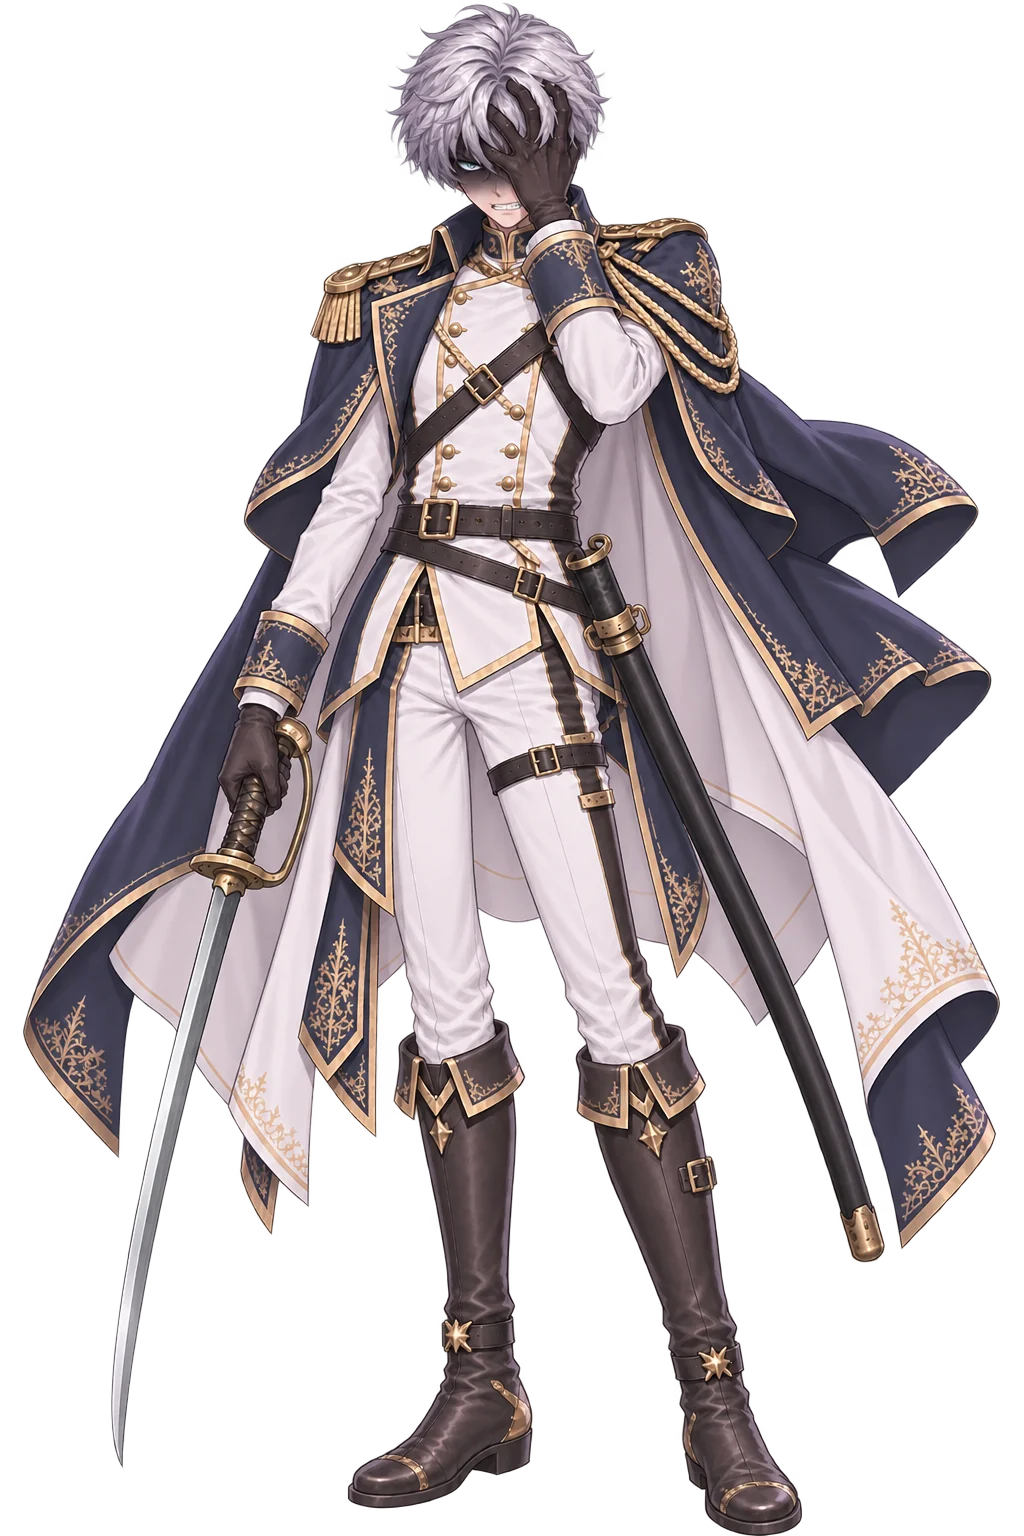
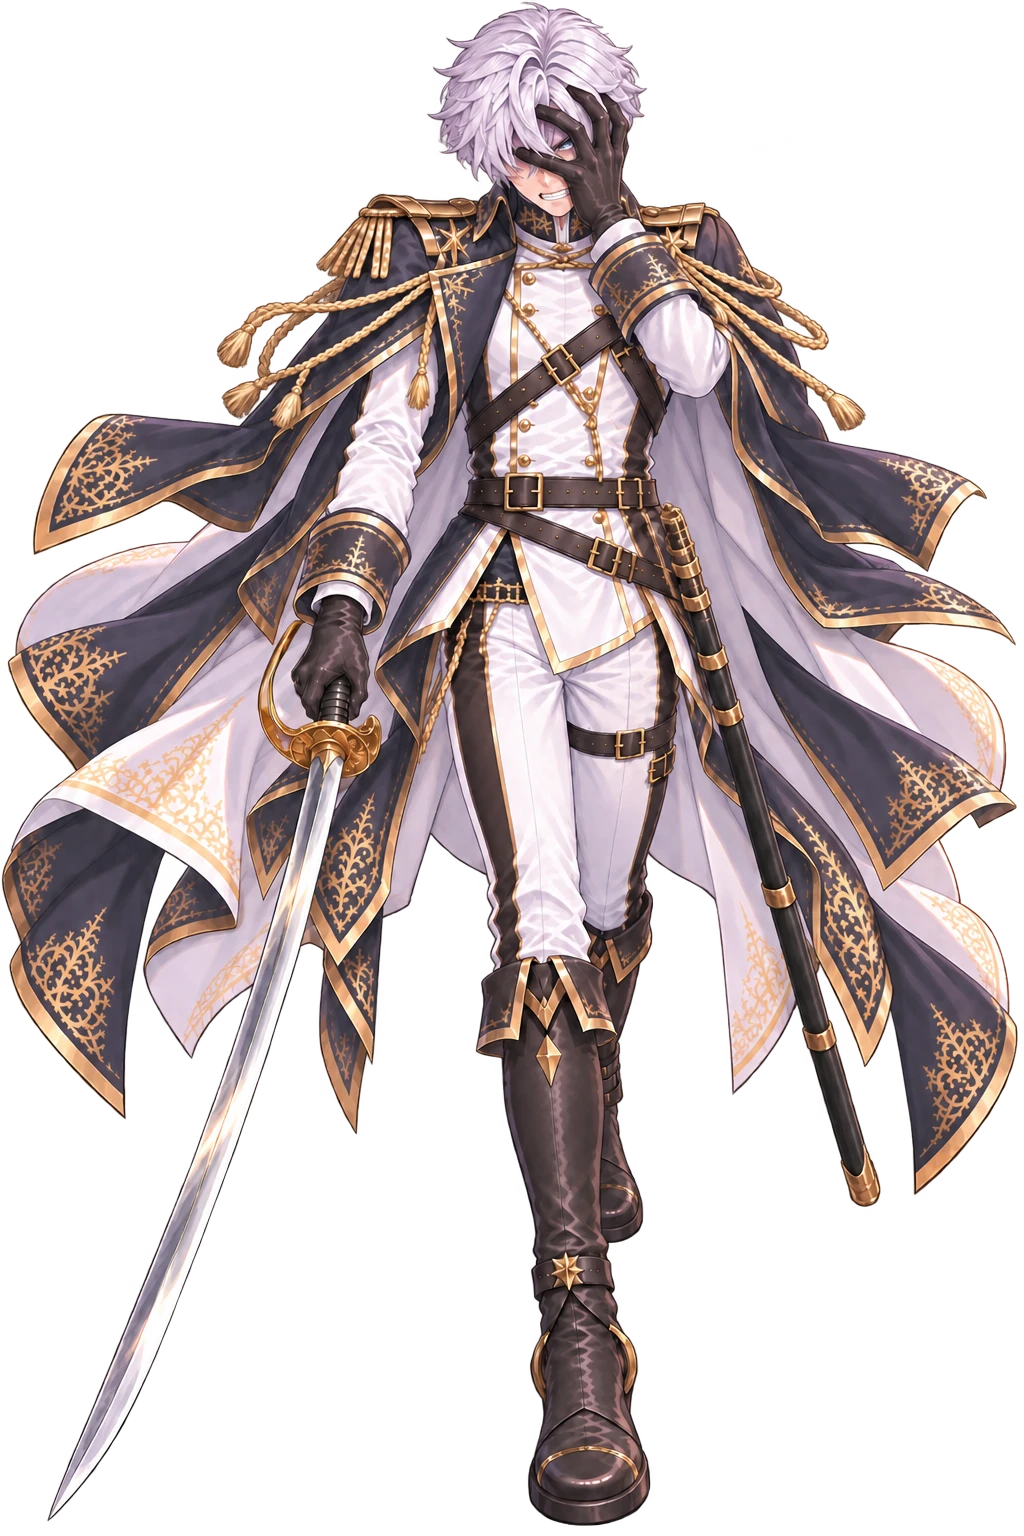
ver -2377 米夏 抓臉換 Ray 11-03 交的新圖；暴走以新抓臉為底重畫（頭髮升騰、臉微仰、赤眼下視、符文法環＋紫黑火焰之翼，GPT 直出 alpha）

diff --git a/index.html b/index.html
@@ -16,7 +16,7 @@
 <link rel="apple-touch-icon" href="resources/background/tivot_emblem.png?v=9220f8bb">
 <title>TIVOT</title>
 <!-- 全域鎖直向（真鎖 + 橫向擋板）；classic script，需在版面就緒前掛上 -->
-<script src="orientation.js?v=2376"></script>
+<script src="orientation.js?v=2377"></script>
 <!-- 離線包（ver -2256）：註冊 sw.js；主畫面 App 裡出現「下載離線包」鈕 -->
 <script src="offline.js"></script>
 <!-- ══ 效能探針・計數層（ver -850，Ray：「沒有辦法寫一個偵測程式進去看是什麼
@@ -65,74 +65,74 @@
 <script type="importmap">
 {
   "imports": {
-    "./audio.js": "./audio.js?v=2376",
-    "./config.js": "./config.js?v=2376",
-    "./i18n.js": "./i18n.js?v=2376",
-    "./main.js": "./main.js?v=2376",
-    "./offline.js": "./offline.js?v=2376",
-    "./orientation.js": "./orientation.js?v=2376",
-    "./state.js": "./state.js?v=2376",
-    "./sw.js": "./sw.js?v=2376",
-    "./telemetry.js": "./telemetry.js?v=2376",
-    "./modules/beatpick.js": "./modules/beatpick.js?v=2376",
-    "./modules/blink.js": "./modules/blink.js?v=2376",
-    "./modules/breath.js": "./modules/breath.js?v=2376",
-    "./modules/combat.js": "./modules/combat.js?v=2376",
-    "./modules/defense.js": "./modules/defense.js?v=2376",
-    "./modules/enemy.js": "./modules/enemy.js?v=2376",
-    "./modules/eyefx.js": "./modules/eyefx.js?v=2376",
-    "./modules/gear.js": "./modules/gear.js?v=2376",
-    "./modules/groundShadow.js": "./modules/groundShadow.js?v=2376",
-    "./modules/haptics.js": "./modules/haptics.js?v=2376",
-    "./modules/inn.js": "./modules/inn.js?v=2376",
-    "./modules/inspector.js": "./modules/inspector.js?v=2376",
-    "./modules/loot.js": "./modules/loot.js?v=2376",
-    "./modules/partner.js": "./modules/partner.js?v=2376",
-    "./modules/saint.js": "./modules/saint.js?v=2376",
-    "./modules/sakura.js": "./modules/sakura.js?v=2376",
-    "./modules/save.js": "./modules/save.js?v=2376",
-    "./modules/settings.js": "./modules/settings.js?v=2376",
-    "./modules/story.js": "./modules/story.js?v=2376",
-    "./modules/sway.js": "./modules/sway.js?v=2376",
-    "./modules/tone.js": "./modules/tone.js?v=2376",
-    "./modules/town.js": "./modules/town.js?v=2376",
-    "./modules/transition.js": "./modules/transition.js?v=2376",
-    "./modules/tutorial.js": "./modules/tutorial.js?v=2376",
-    "./modules/weapon.js": "./modules/weapon.js?v=2376",
-    "./script/bg_index.js": "./script/bg_index.js?v=2376",
-    "./script/blink.js": "./script/blink.js?v=2376",
-    "./script/clock.js": "./script/clock.js?v=2376",
-    "./script/enemies.js": "./script/enemies.js?v=2376",
-    "./script/evaluation.js": "./script/evaluation.js?v=2376",
-    "./script/eyefx.js": "./script/eyefx.js?v=2376",
-    "./script/inventory.js": "./script/inventory.js?v=2376",
-    "./script/loadout.js": "./script/loadout.js?v=2376",
-    "./script/mainScript.js": "./script/mainScript.js?v=2376",
-    "./script/progress.js": "./script/progress.js?v=2376",
-    "./script/shopcards.js": "./script/shopcards.js?v=2376",
-    "./script/shopstock.js": "./script/shopstock.js?v=2376",
-    "./script/speakers.js": "./script/speakers.js?v=2376",
-    "./script/sway.js": "./script/sway.js?v=2376",
-    "./script/town.js": "./script/town.js?v=2376",
-    "./script/weapons.js": "./script/weapons.js?v=2376",
-    "./i18n/en.js": "./i18n/en.js?v=2376",
-    "./i18n/es.js": "./i18n/es.js?v=2376",
-    "./i18n/ja.js": "./i18n/ja.js?v=2376",
-    "./i18n/scriptTr.js": "./i18n/scriptTr.js?v=2376",
-    "./i18n/zh.js": "./i18n/zh.js?v=2376",
-    "./i18n/script/es.classic.js": "./i18n/script/es.classic.js?v=2376",
-    "./i18n/script/es.js": "./i18n/script/es.js?v=2376",
-    "./i18n/ui/es.classic.js": "./i18n/ui/es.classic.js?v=2376",
-    "./i18n/ui/es.js": "./i18n/ui/es.js?v=2376"
+    "./audio.js": "./audio.js?v=2377",
+    "./config.js": "./config.js?v=2377",
+    "./i18n.js": "./i18n.js?v=2377",
+    "./main.js": "./main.js?v=2377",
+    "./offline.js": "./offline.js?v=2377",
+    "./orientation.js": "./orientation.js?v=2377",
+    "./state.js": "./state.js?v=2377",
+    "./sw.js": "./sw.js?v=2377",
+    "./telemetry.js": "./telemetry.js?v=2377",
+    "./modules/beatpick.js": "./modules/beatpick.js?v=2377",
+    "./modules/blink.js": "./modules/blink.js?v=2377",
+    "./modules/breath.js": "./modules/breath.js?v=2377",
+    "./modules/combat.js": "./modules/combat.js?v=2377",
+    "./modules/defense.js": "./modules/defense.js?v=2377",
+    "./modules/enemy.js": "./modules/enemy.js?v=2377",
+    "./modules/eyefx.js": "./modules/eyefx.js?v=2377",
+    "./modules/gear.js": "./modules/gear.js?v=2377",
+    "./modules/groundShadow.js": "./modules/groundShadow.js?v=2377",
+    "./modules/haptics.js": "./modules/haptics.js?v=2377",
+    "./modules/inn.js": "./modules/inn.js?v=2377",
+    "./modules/inspector.js": "./modules/inspector.js?v=2377",
+    "./modules/loot.js": "./modules/loot.js?v=2377",
+    "./modules/partner.js": "./modules/partner.js?v=2377",
+    "./modules/saint.js": "./modules/saint.js?v=2377",
+    "./modules/sakura.js": "./modules/sakura.js?v=2377",
+    "./modules/save.js": "./modules/save.js?v=2377",
+    "./modules/settings.js": "./modules/settings.js?v=2377",
+    "./modules/story.js": "./modules/story.js?v=2377",
+    "./modules/sway.js": "./modules/sway.js?v=2377",
+    "./modules/tone.js": "./modules/tone.js?v=2377",
+    "./modules/town.js": "./modules/town.js?v=2377",
+    "./modules/transition.js": "./modules/transition.js?v=2377",
+    "./modules/tutorial.js": "./modules/tutorial.js?v=2377",
+    "./modules/weapon.js": "./modules/weapon.js?v=2377",
+    "./script/bg_index.js": "./script/bg_index.js?v=2377",
+    "./script/blink.js": "./script/blink.js?v=2377",
+    "./script/clock.js": "./script/clock.js?v=2377",
+    "./script/enemies.js": "./script/enemies.js?v=2377",
+    "./script/evaluation.js": "./script/evaluation.js?v=2377",
+    "./script/eyefx.js": "./script/eyefx.js?v=2377",
+    "./script/inventory.js": "./script/inventory.js?v=2377",
+    "./script/loadout.js": "./script/loadout.js?v=2377",
+    "./script/mainScript.js": "./script/mainScript.js?v=2377",
+    "./script/progress.js": "./script/progress.js?v=2377",
+    "./script/shopcards.js": "./script/shopcards.js?v=2377",
+    "./script/shopstock.js": "./script/shopstock.js?v=2377",
+    "./script/speakers.js": "./script/speakers.js?v=2377",
+    "./script/sway.js": "./script/sway.js?v=2377",
+    "./script/town.js": "./script/town.js?v=2377",
+    "./script/weapons.js": "./script/weapons.js?v=2377",
+    "./i18n/en.js": "./i18n/en.js?v=2377",
+    "./i18n/es.js": "./i18n/es.js?v=2377",
+    "./i18n/ja.js": "./i18n/ja.js?v=2377",
+    "./i18n/scriptTr.js": "./i18n/scriptTr.js?v=2377",
+    "./i18n/zh.js": "./i18n/zh.js?v=2377",
+    "./i18n/script/es.classic.js": "./i18n/script/es.classic.js?v=2377",
+    "./i18n/script/es.js": "./i18n/script/es.js?v=2377",
+    "./i18n/ui/es.classic.js": "./i18n/ui/es.classic.js?v=2377",
+    "./i18n/ui/es.js": "./i18n/ui/es.js?v=2377"
   }
 }
 </script>
 <!-- BUST:END -->
-<link rel="stylesheet" href="style.css?v=2376">
+<link rel="stylesheet" href="style.css?v=2377">
   <!-- 拾得道具／道具欄／商店／懸賞榜（ver -380 抽出，飛行頁共用同一份）。
        ⚠ `data-lootsheet` 是給 `modules/loot.js` 認的：它看到已經掛過就不再掛一次。
          飛行頁沒有這一行，由那支模組自己掛上去。 -->
-  <link rel="stylesheet" href="css/lootsheet.css?v=2376" data-lootsheet="1">
+  <link rel="stylesheet" href="css/lootsheet.css?v=2377" data-lootsheet="1">
 <!-- 主畫面 App（standalone）偵測：首繪前在 <html> 蓋 .standalone，
      供 CSS 修 iOS 26 版面視窗少算頂部安全區高度（底部露黑帶）的問題 -->
 <script>
@@ -778,6 +778,6 @@
      ⚠ src 是**按下去才給**的（lazy）：不然每次開機都要多載一整個飛行頁。 -->
 <iframe id="flightFrame" title="飛行"></iframe>
 
-<script type="module" src="main.js?v=2376"></script>
+<script type="module" src="main.js?v=2377"></script>
 </body>
 </html>

diff --git a/flight/index.html b/flight/index.html
@@ -3,7 +3,7 @@
 <head>
 <meta charset="utf-8">
 <meta name="viewport" content="width=device-width,initial-scale=1,maximum-scale=1,user-scalable=no,viewport-fit=cover">
-<script src="../orientation.js?v=2376"></script>
+<script src="../orientation.js?v=2377"></script>
 <script>
 /* 介面字譯文（ver -1909）：這一頁是非模組，程式一開跑就讀字串 —— 所以譯文表要**同步**載
    （document.write，只在選了有譯文的語言時）。語言判定與 i18n.js 的 LANG 同一套
@@ -11,7 +11,7 @@
 (function(){
   var l=null; try{ l=localStorage.getItem('tivot.lang'); }catch(e){}
   if(!l){ try{ var n=(navigator.languages&&navigator.languages[0])||navigator.language||''; if(String(n).toLowerCase().indexOf('es')===0) l='es'; }catch(e){} }
-  if(['es'].indexOf(l)>=0) document.write('<script src="../i18n/script/'+l+'.classic.js?v=2376"><\/script><script src="../i18n/ui/'+l+'.classic.js?v=2376"><\/script>');
+  if(['es'].indexOf(l)>=0) document.write('<script src="../i18n/script/'+l+'.classic.js?v=2377"><\/script><script src="../i18n/ui/'+l+'.classic.js?v=2377"><\/script>');
 })();
 function i18nT(s){ var t=window.__TIVOT_TR; return (t && typeof s==='string' && t[s]!=null) ? t[s] : s; }
 document.addEventListener('DOMContentLoaded', function(){
@@ -237,7 +237,7 @@ document.addEventListener('DOMContentLoaded', function(){
   /* ver -2217：門圖含楣（kerberos_gate，＝主遊戲同一張）—— 底圖往上延伸到楣的上緣（--fk-gate-top，負值，layoutFKerb 寫）。
      畫在 ::before：門的子元素（紋章／箭／鉚釘）排在它之後，自然疊在上面。 */
   #fkerbDoor::before{content:'';position:absolute;left:0;right:0;top:var(--fk-gate-top,0px);bottom:0;
-    background-image:url('../resources/vfx/kerberos_gate.webp?v=2376');
+    background-image:url('../resources/vfx/kerberos_gate.webp?v=2377');
     background-repeat:no-repeat;background-size:100% 100%;pointer-events:none;}
   #fkerb.rise #fkerbDoor{transform:translateY(calc(var(--fkerb-rise,0px) * -1));}
   /* 楣與其餘零件：全部是門的子元素＝同一剛體，門上推它們跟著上去
@@ -260,8 +260,8 @@ document.addEventListener('DOMContentLoaded', function(){
       radial-gradient(circle at 50% 22%, rgba(0,0,0,.72) 40%, rgba(0,0,0,0) 78%);
     box-shadow:inset 0 3px 7px rgba(0,0,0,.85);}
   #fkerbGear .fkg-shine{position:absolute;inset:0;mix-blend-mode:screen;opacity:.8;
-    -webkit-mask-image:url("../resources/vfx/kerberos_gear.webp?v=2376");
-    mask-image:url("../resources/vfx/kerberos_gear.webp?v=2376");
+    -webkit-mask-image:url("../resources/vfx/kerberos_gear.webp?v=2377");
+    mask-image:url("../resources/vfx/kerberos_gear.webp?v=2377");
     -webkit-mask-size:100% 100%;mask-size:100% 100%;
     -webkit-mask-repeat:no-repeat;mask-repeat:no-repeat;
     background:linear-gradient(114deg,
@@ -281,8 +281,8 @@ document.addEventListener('DOMContentLoaded', function(){
     filter:drop-shadow(0 3px 7px rgba(0,0,0,.9)) drop-shadow(0 0 2px rgba(0,0,0,.8));}
   #fkerbPend .fkp-shine{position:absolute;inset:0;pointer-events:none;
     mix-blend-mode:screen;opacity:.85;
-    -webkit-mask-image:url("../resources/vfx/kerberos_pendant.webp?v=2376");
-    mask-image:url("../resources/vfx/kerberos_pendant.webp?v=2376");
+    -webkit-mask-image:url("../resources/vfx/kerberos_pendant.webp?v=2377");
+    mask-image:url("../resources/vfx/kerberos_pendant.webp?v=2377");
     -webkit-mask-size:100% 100%;mask-size:100% 100%;
     -webkit-mask-repeat:no-repeat;mask-repeat:no-repeat;
     background:linear-gradient(114deg,
@@ -647,23 +647,23 @@ img:not([src]), img[src=""], img.img-broken{visibility:hidden !important;}
        ⚠ 要有，否則交棒那一格齒輪會憑空冒出來（同吊墜的理由）。
        ⚠ 排在 `.fk-plate` 之前 ＝ 團徽之下、槍棺之上。 -->
   <div id="fkerbGear"><i class="fkg-well"></i>
-    <img src="../resources/vfx/kerberos_gear.webp?v=2376" alt=""><i class="fkg-shine"></i></div>
+    <img src="../resources/vfx/kerberos_gear.webp?v=2377" alt=""><i class="fkg-shine"></i></div>
   <div id="fkerbGearSm"><i class="fkg-well"></i>
-    <img src="../resources/vfx/kerberos_gear.webp?v=2376" alt=""></div>
-  <img class="fk-plate" src="../resources/vfx/kerberos_plate.webp?v=2376" alt="">
-  <img class="fk-arrow n" src="../resources/vfx/kerberos_arrow.webp?v=2376" alt="">
-  <img class="fk-arrow e" src="../resources/vfx/kerberos_arrow.webp?v=2376" alt="">
-  <img class="fk-arrow s" src="../resources/vfx/kerberos_arrow.webp?v=2376" alt="">
-  <img class="fk-arrow w" src="../resources/vfx/kerberos_arrow.webp?v=2376" alt="">
-  <img class="fk-rivet r10" src="../resources/vfx/kerberos_rivet.webp?v=2376" alt="">
-  <img class="fk-rivet r2"  src="../resources/vfx/kerberos_rivet.webp?v=2376" alt="">
-  <img class="fk-rivet r4"  src="../resources/vfx/kerberos_rivet.webp?v=2376" alt="">
-  <img class="fk-rivet r8"  src="../resources/vfx/kerberos_rivet.webp?v=2376" alt="">
+    <img src="../resources/vfx/kerberos_gear.webp?v=2377" alt=""></div>
+  <img class="fk-plate" src="../resources/vfx/kerberos_plate.webp?v=2377" alt="">
+  <img class="fk-arrow n" src="../resources/vfx/kerberos_arrow.webp?v=2377" alt="">
+  <img class="fk-arrow e" src="../resources/vfx/kerberos_arrow.webp?v=2377" alt="">
+  <img class="fk-arrow s" src="../resources/vfx/kerberos_arrow.webp?v=2377" alt="">
+  <img class="fk-arrow w" src="../resources/vfx/kerberos_arrow.webp?v=2377" alt="">
+  <img class="fk-rivet r10" src="../resources/vfx/kerberos_rivet.webp?v=2377" alt="">
+  <img class="fk-rivet r2"  src="../resources/vfx/kerberos_rivet.webp?v=2377" alt="">
+  <img class="fk-rivet r4"  src="../resources/vfx/kerberos_rivet.webp?v=2377" alt="">
+  <img class="fk-rivet r8"  src="../resources/vfx/kerberos_rivet.webp?v=2377" alt="">
   <!-- 吊墜（ver -412）：與主遊戲同一套（見 index.html 的 #kerbPend 與 style.css）。
        ⚠ 這一頁**必須也有** —— 遭遇時門是在這裡推上來的，交棒之後主遊戲那一半才接手；
          只有一邊掛吊墜的話，交棒那一格會憑空多出一個東西。 -->
   <div id="fkerbPend"><div class="fkp-swing"><div class="fkp-idle">
-    <img src="../resources/vfx/kerberos_pendant.webp?v=2376" alt=""><i class="fkp-shine"></i>
+    <img src="../resources/vfx/kerberos_pendant.webp?v=2377" alt=""><i class="fkp-shine"></i>
   </div></div></div>
 </div></div>
 <div id="boot">
@@ -685,11 +685,11 @@ img:not([src]), img[src=""], img.img-broken{visibility:hidden !important;}
   <div id="bMsg"><small id="bootMsg"></small></div>
 </div>
 
-<script src="settlement.js?v=2376"></script>
+<script src="settlement.js?v=2377"></script>
 <!-- 閒聊對話的**內容**獨立成一支：方便加台詞、加觸發條件而不必碰引擎。
      ⚠ 一般 <script>（非 module）→ TALKS / talkPeriod / talkPick 是全域，
        而且會在下面這段 inline 之前執行完，所以 inline 內可以直接用。 -->
-<script src="talks.js?v=2376"></script>
+<script src="talks.js?v=2377"></script>
 <script>
 /* 破圖框一律不畫（ver -1881，同主頁 main.js 那一支，這一頁是另一個 document）。 */
 document.addEventListener('error', e=>{ const t=e.target; if(t && t.tagName==='IMG') t.classList.add('img-broken'); }, true);
@@ -765,7 +765,7 @@ const COLOR_URL  = 'silvermoon_terrain.png?v=b18827be'  + TERRAIN_V;
    以前是手寫的，於是從 -911 起就沒有人記得動它 —— 而 HUD 上的版本號正是 Ray
    在手機上確認「我現在跑的是哪一版」的唯一依據（鐵律 7：一個量一個計算點；
    ver -626：版本號不動就等於沒有版本號）。**不要手改。** */
-const FLIGHT_VER = 'ver -2376';
+const FLIGHT_VER = 'ver -2377';
 const MAP_SCALE  = /[?&]world=cave/.test(location.search) ? 10 : 20;   // 地底的圖加密成 1536²（ver -2369，build_cave.py 的 SUPER）：一格 10 世界單位，世界大小不變
 const INV_SCALE  = 1/MAP_SCALE;
 const PEAK_SCALE = 520;   // 高度圖 255 對應的世界高度（越大山越陡）

diff --git a/script/speakers.js b/script/speakers.js
@@ -1657,9 +1657,9 @@ export const ART = {
     draw:       { src:'resources/si/misha_si_draw.webp?v=68b1b653', top:6, bot:1534, fx:0.434 },   // ver -1728：Ray 新出的拔刀圖（姿勢換了，取景重量；美術 09-25）
     salute:     { src:'resources/si/misha_si_salute.webp', top:9, bot:1520, fx:0.447 },
     side:       { src:'resources/si/misha_si_side.webp', top:16, bot:1512, fx:0.37 },
-    '暴走':     { fxShift:0, blink:'off', rescale:true, src:'resources/si/misha_si_coverfaceni.webp?v=2d7113fa', top:66, bot:1230, fx:0.364 },   // ver -2358（Ray）：陰暗抓臉定稿＋金色符文法環（-2359 照 NI CI）、左後方紫黑火焰之翼（-2360）、恨意紅光眼、臉頰裂紋（方形 1254²）；top/bot 量人不量翼與法環
+    '暴走':     { fxShift:0, blink:'off', rescale:true, src:'resources/si/misha_si_coverfaceni.webp?v=83131ae8', top:205, bot:1419, fx:0.496 },   // ver -2377（Ray 11-03）：以新抓臉為底的暴走聖徒化 —— 頭髮因力量升騰、臉微仰、赤眼往下看、冷而銳；金色符文天使環＋右後方紫黑火焰之翼（1024×1536）；top/bot 量人不量翼與法環
     '抓臉閉嘴': { blink:'off', src:'resources/si/misha_si_coverfaceshut.webp?v=58da9959', top:8, bot:1512, fx:0.470 },   // ver -2356（Ray：「咬牙 閉嘴兩張都收」）：同抓臉（-2357 更陰暗），嘴緊閉不露牙
-    '抓臉':     { blink:'off', src:'resources/si/misha_si_coverface.webp?v=754856ca', top:8, bot:1512, fx:0.470 },   // ver -2356（Ray）：front 為底；森冷銳利、咬牙、臉上半部壓陰影、冷光眼（-2357 更陰暗）；左手插髮扣臉、銀髮穿過指縫、冷眼從指縫露出；右手持畜生道長刀、長鞘掛左腰
+    '抓臉':     { blink:'off', src:'resources/si/misha_si_coverface.webp?v=bcf9a94c', top:0, bot:1525, fx:0.535 },   // ver -2377（Ray 11-03 交新圖）：左手戴黑手套扣臉、指縫露冷眼、咬牙、右手持軍刀、長鞘掛左；以下為舊版說明 —— ver -2356（Ray）：front 為底；森冷銳利、咬牙、臉上半部壓陰影、冷光眼（-2357 更陰暗）；左手插髮扣臉、銀髮穿過指縫、冷眼從指縫露出；右手持畜生道長刀、長鞘掛左腰
     wound:      { fxShift:0, blink:'off', src:'resources/si/misha_si_wound.webp?v=3a49219d', top:34, bot:1499, fx:0.403 },
     close:      { src:'resources/si/misha_si_close.webp?v=47dd4349', top:14, bot:1509, fx:0.469 },
     back:       { src:'resources/si/misha_si_back.webp', top:12, bot:1496, fx:0.458 },

diff --git a/config.js b/config.js
@@ -87,7 +87,7 @@ export const HITFX = {
  *     以為是快取卡住 —— 版本號不動就等於沒有版本號）。
  *  ⚠ 它同時是**暖開機戳記的鑰匙**（main.js 的 `WARM_BOOT`）：版本一變，
  *    上一版的戳記就失效 → 下一次開機重跑完整讀取。那正是改版後該有的行為。 */
-export const VERSION = 'ver 2026.11.03-2376';
+export const VERSION = 'ver 2026.11.03-2377';
 
 /* ══ 空中怪 16 隻的戰鬥卡（ver -2268）══ 每一隻一張 `flight_<鍵>`（飛行頁 `battleIdFor` 的命名），
    內容同羽蛇那一場：船戰、艦載武器音、連射間隔 180ms。⚠ 這份鍵清單在三處：這裡／
@@ -6153,8 +6153,8 @@ export const ASSET_VER = {
   'misha_si_closeopen': '102292c5',
   'misha_si_closeopen_closed': '658c29c2',
   'misha_si_closeopen_half': '0379d48b',
-  'misha_si_coverface': '754856ca',
-  'misha_si_coverfaceni': '2d7113fa',
+  'misha_si_coverface': 'bcf9a94c',
+  'misha_si_coverfaceni': '83131ae8',
   'misha_si_coverfaceshut': '58da9959',
   'misha_si_draw': '68b1b653',
   'misha_si_draw_closed': 'ff69810f',

diff --git a/modules/story.js b/modules/story.js
@@ -3588,7 +3588,7 @@ const KERB_DIR='resources/vfx/';
    cache-buster（§5：檔名沒變、內容變了，瀏覽器照樣拿舊的那一份，而症狀只是
    「看起來沒變」）。版本號由 `tools/bust.py` 同步，路徑只由 `kerbUrl()` 組（鐵律 8）——
    飛行頁那一半是另一個 document，各有一份，改一邊要改另一邊。 */
-const KERB_V='?v=2376';
+const KERB_V='?v=2377';
 const kerbUrl=n=>KERB_DIR+n+'.webp'+KERB_V;
 /* 門的圖（ver -2218）：**每一道門都要先載完**（劇情讀取頁 `preloadStory`、城鎮那道 `loadScene`）——
    Ray：「讀圖的時候先跑槍棺出來才讀楣」「往上推的時候楣會消失」：合成後的 `kerberos_gate`（門＋楣）
